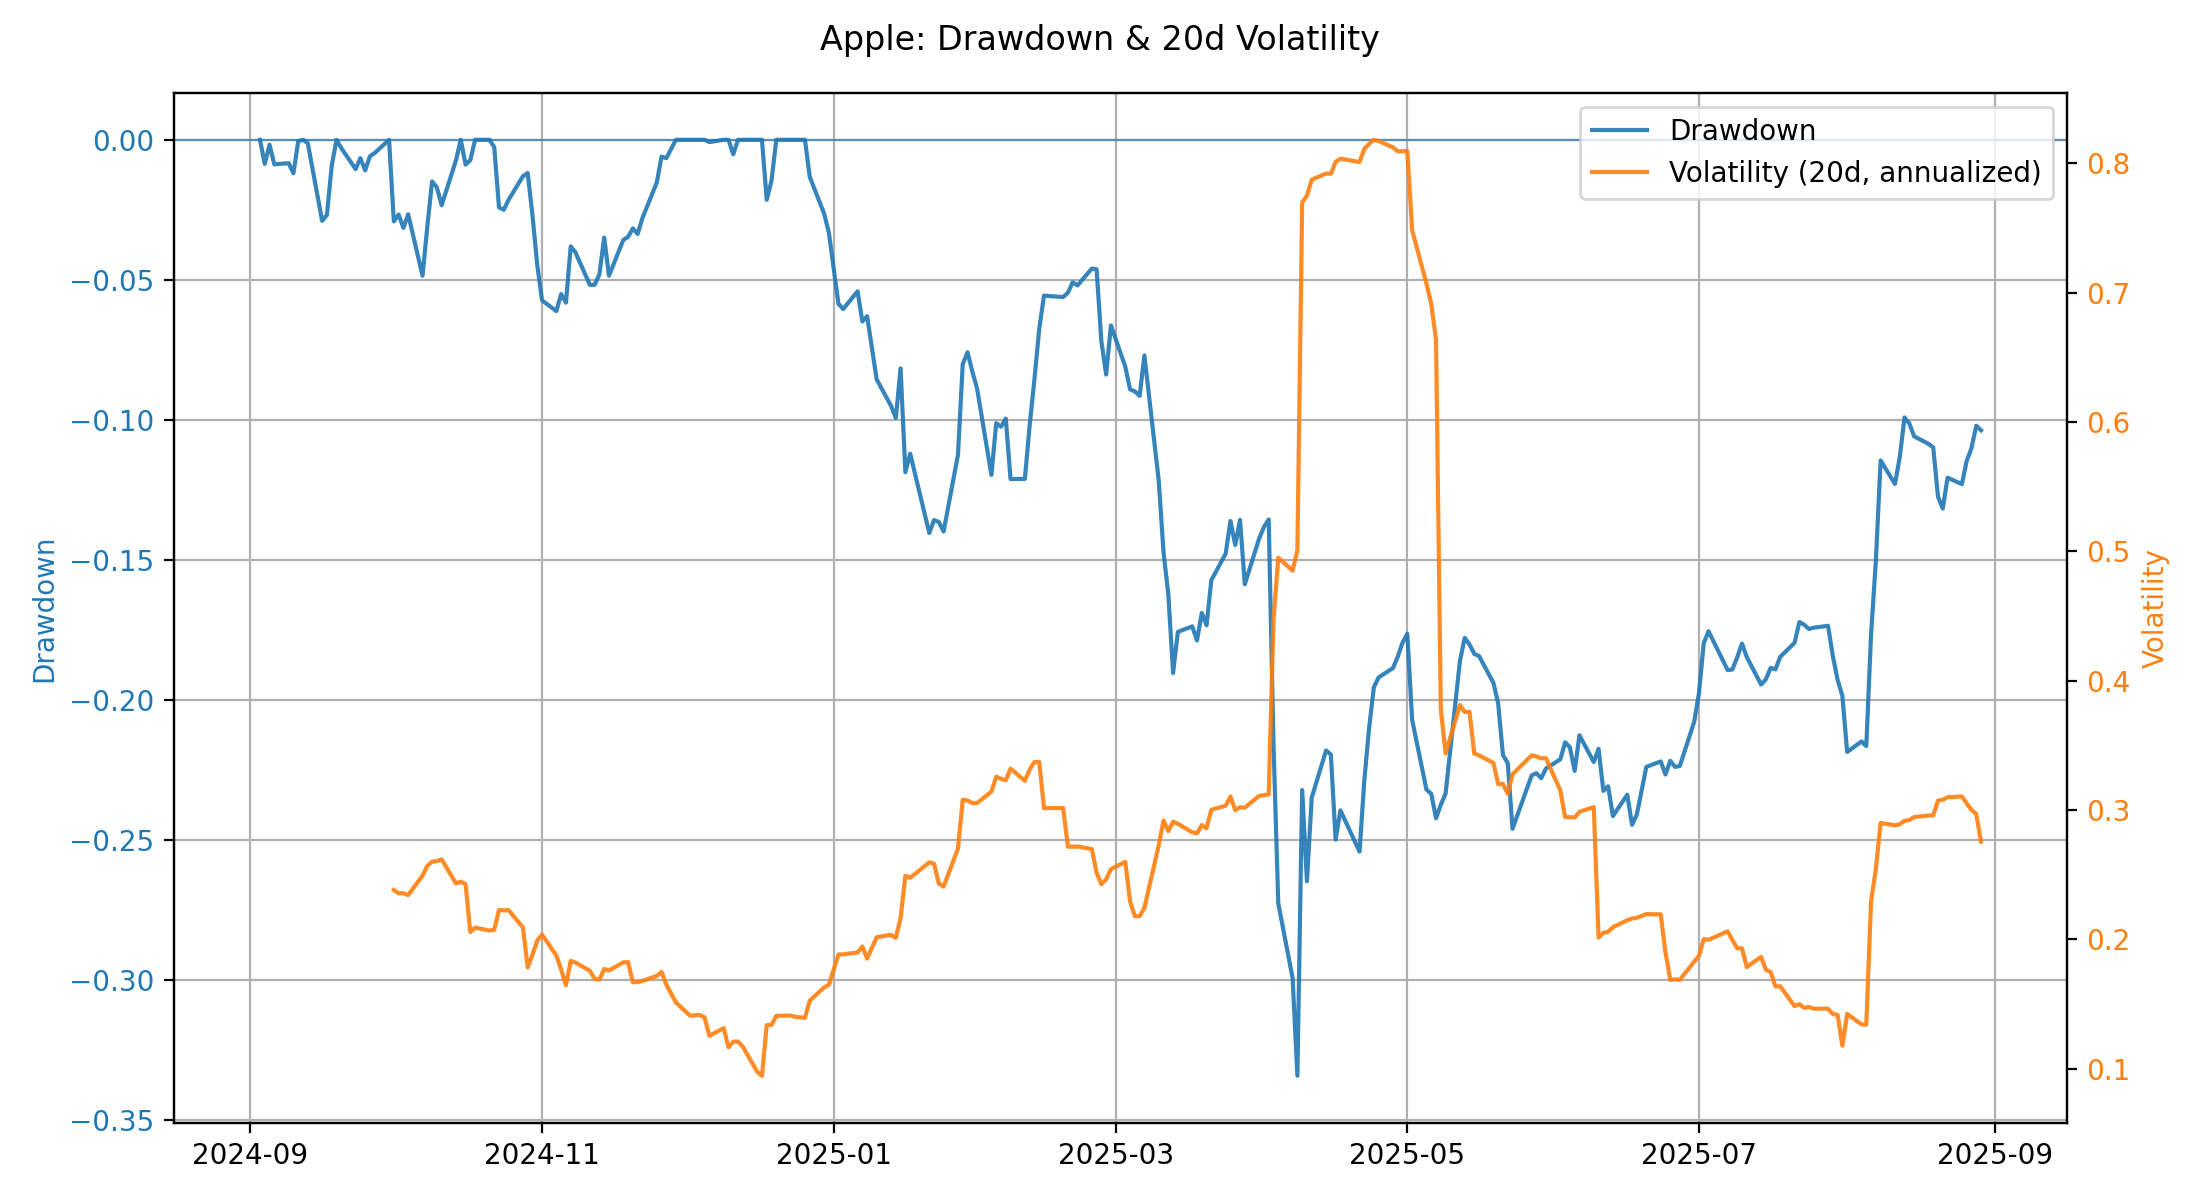
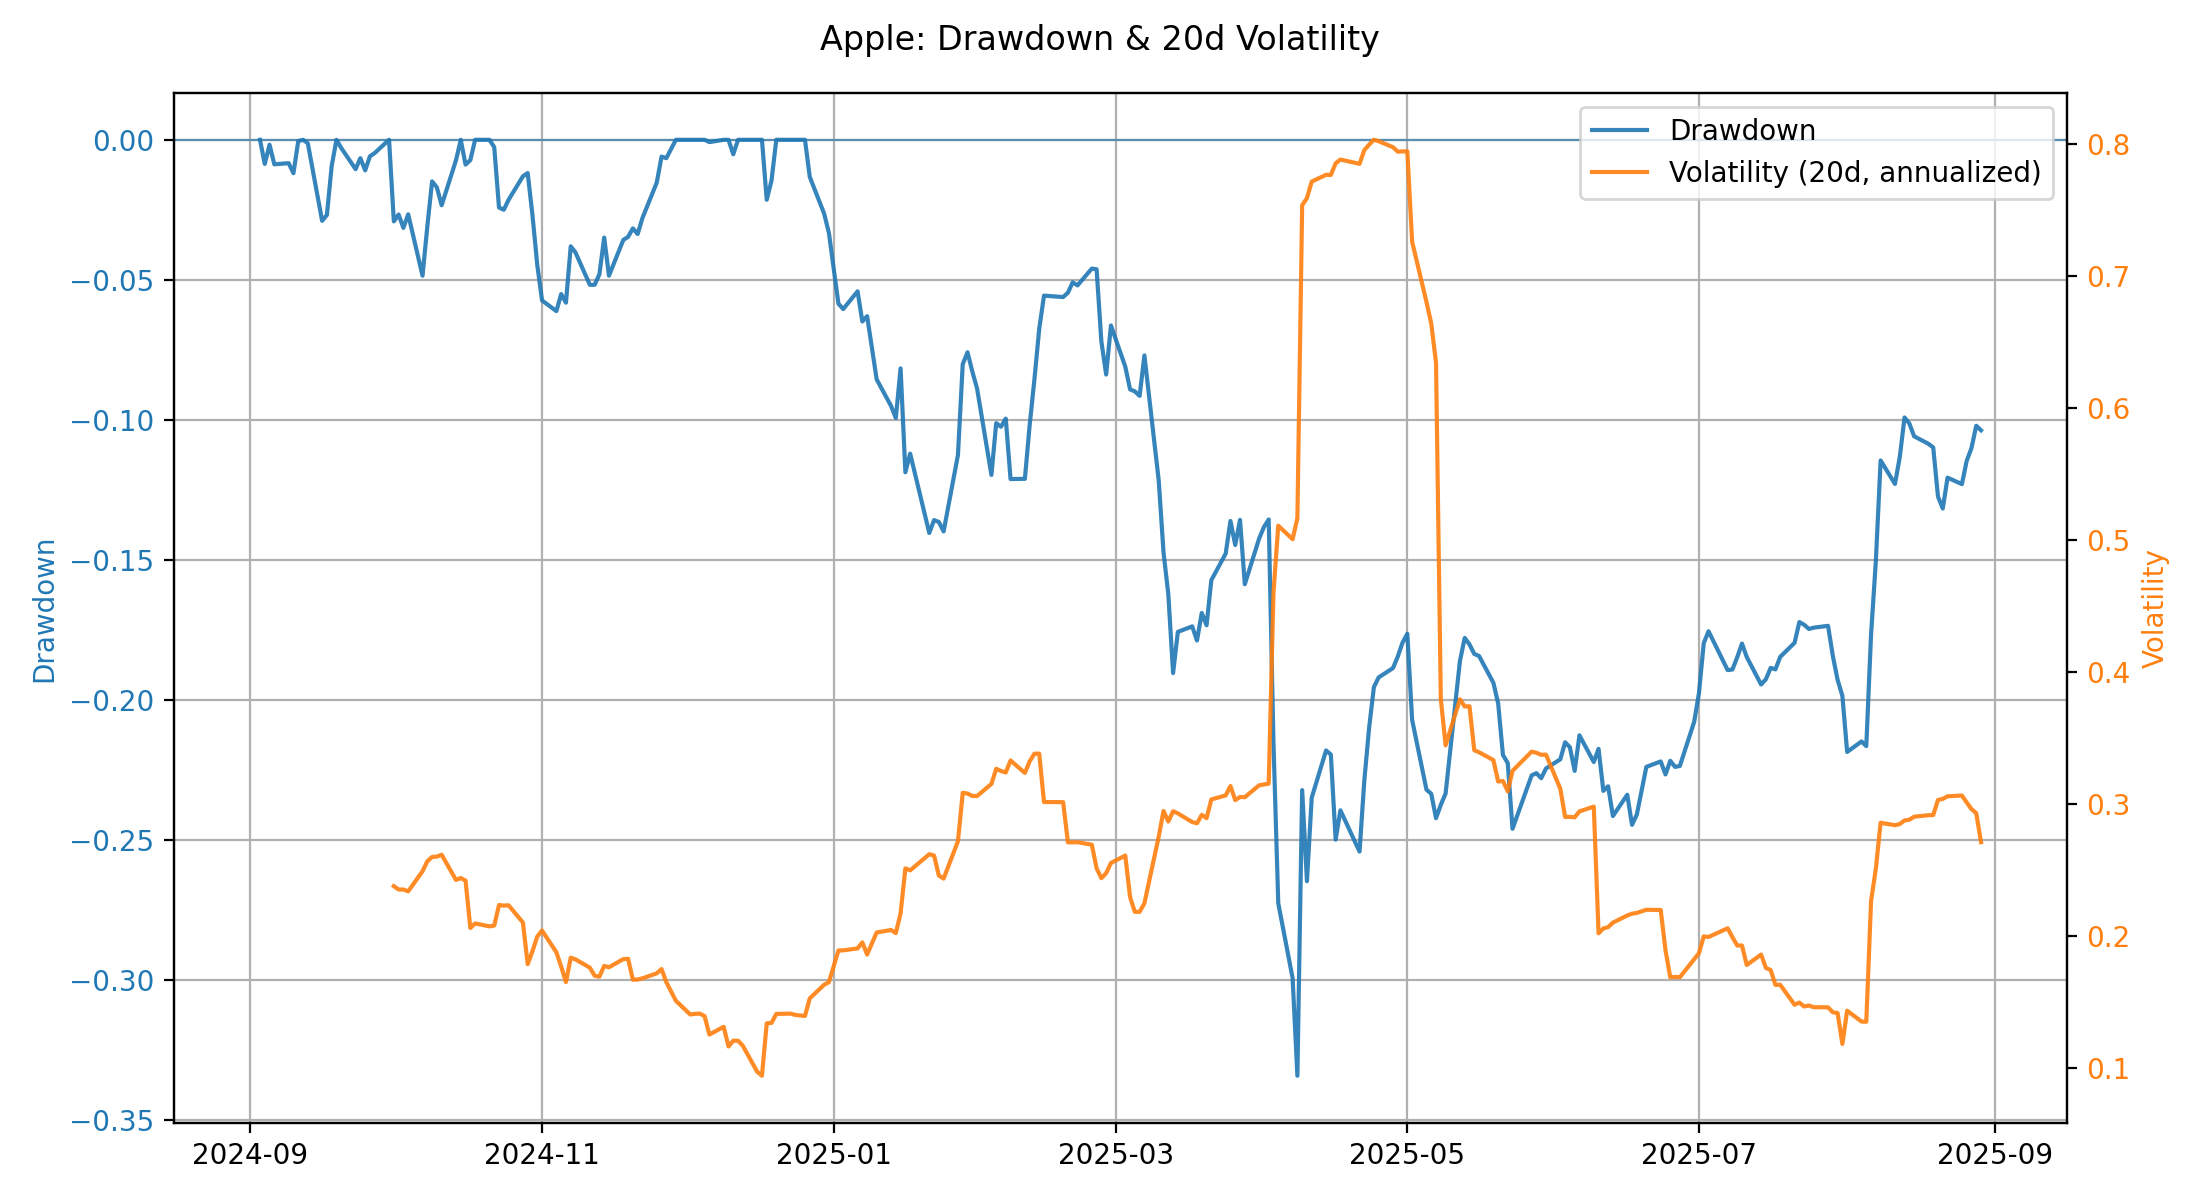
update. code & figs

diff --git a/황정현HW1.py b/황정현HW1.py
@@ -10,8 +10,8 @@ try:
 except Exception:
     HAS_MPLFINANCE = False
 
-SP500_CSV = "data/S&P 500 Historical Data.csv"      
-AAPL_CSV  = "data/Apple Stock Price History.csv"    
+SP500_CSV = "data/S&P 500 Historical Data.csv"
+AAPL_CSV  = "data/Apple Stock Price History.csv"
 OUT_DIR   = "figs"
 SHOW_FIGS = True
 os.makedirs(OUT_DIR, exist_ok=True)
@@ -53,11 +53,12 @@ def load_investing_csv(path):
 
 def add_features(df):
     px = df["Adj Close"]
-    df["MA5"]  = px.rolling(5).mean()
-    df["MA20"] = px.rolling(20).mean()
-    df["MA60"] = px.rolling(60).mean()
-    df["Ret"]  = px.pct_change()
-    df["Vol20"] = df["Ret"].rolling(20).std() * np.sqrt(252)  
+    df["MA5"]   = px.rolling(5).mean()
+    df["MA20"]  = px.rolling(20).mean()
+    df["MA60"]  = px.rolling(60).mean()
+    df["Ret"]   = px.pct_change()
+    df["LogRet"] = np.log(px / px.shift(1))             
+    df["Vol20"] = df["LogRet"].rolling(20).std() * np.sqrt(252)
     cummax = px.cummax()
     df["Drawdown"] = px / cummax - 1.0
     return df
@@ -84,11 +85,10 @@ def ma_slope(series, lookback=60):
 
 def plot_price_ma(df, title, fname):
     plt.figure(figsize=(11,6))
-
     plt.plot(df.index, df["Adj Close"], color="#666666", label="Adj Close", alpha=0.9)
-    plt.plot(df.index, df["MA5"],  label="MA5 (Short-term)",  linewidth=1.8, color="tab:blue")
+    plt.plot(df.index, df["MA5"],  label="MA5 (Short-term)",   linewidth=1.8, color="tab:blue")
     plt.plot(df.index, df["MA20"], label="MA20 (Medium-term)", linewidth=1.8, color="tab:green")
-    plt.plot(df.index, df["MA60"], label="MA60 (Long-term)", linewidth=1.8, color="tab:red")
+    plt.plot(df.index, df["MA60"], label="MA60 (Long-term)",   linewidth=1.8, color="tab:red")
 
     golden, dead = find_crossovers(df)
     plt.scatter(golden, df.loc[golden, "Adj Close"], marker="^", s=55,
@@ -96,8 +96,7 @@ def plot_price_ma(df, title, fname):
     plt.scatter(dead,   df.loc[dead,   "Adj Close"], marker="v", s=55,
                 label="Dead Cross",   color="tab:orange", zorder=3)
 
-    plt.title(title)
-    plt.xlabel("Date"); plt.ylabel("Price")
+    plt.title(title); plt.xlabel("Date"); plt.ylabel("Price")
     leg = plt.legend(title="Moving Averages & Crossovers")
     if leg: leg._legend_box.align = "left"
     plt.grid(True); plt.tight_layout()
@@ -133,10 +132,7 @@ def plot_drawdown_vol(df, title, fname):
     ax2.set_ylabel("Volatility", color=c2)
     ax2.tick_params(axis="y", labelcolor=c2)
 
-    lines = [l1, l2]
-    labels = [ln.get_label() for ln in lines]
-    ax1.legend(lines, labels, loc="upper right")
-
+    ax1.legend([l1, l2], [l1.get_label(), l2.get_label()], loc="upper right")
     fig.suptitle(title)
     ax1.grid(True); fig.tight_layout()
     fig.savefig(os.path.join(OUT_DIR, fname), dpi=200)
@@ -168,14 +164,11 @@ def maybe_candle_chart(df, title, fname):
     )
 
     ax = axlist[0]
-
     ax.plot([], [], color="green", label="Bullish candle")
     ax.plot([], [], color="red",   label="Bearish candle")
-
     ax.plot([], [], color="tab:blue",  label="MA5 (Short-term)")
     ax.plot([], [], color="tab:green", label="MA20 (Medium-term)")
     ax.plot([], [], color="tab:red",   label="MA60 (Long-term)")
-
     ax.legend(loc="upper left", frameon=True, title="Legend")
 
     if SHOW_FIGS: plt.show()
@@ -186,14 +179,14 @@ def main():
     spx  = add_features(load_investing_csv(SP500_CSV))
     aapl = add_features(load_investing_csv(AAPL_CSV))
 
-    beta, intercept, r, p, ret = beta_and_corr(spx["Ret"], aapl["Ret"])
+    beta, intercept, r, p, ret = beta_and_corr(spx["LogRet"], aapl["LogRet"])
 
     spx_g, spx_d = find_crossovers(spx)
     a_g, a_d = find_crossovers(aapl)
     metrics = {
         "Period": f"{spx.index.min().date()} ~ {spx.index.max().date()}",
-        "Corr(SPX,AAPL)": round(ret["SPX"].corr(ret["AAPL"]), 3),
-        "Beta(AAPL~SPX)": round(beta, 2),
+        "Corr(SPX,AAPL)": round(ret["SPX"].corr(ret["AAPL"]), 3), 
+        "Beta(AAPL~SPX)": round(beta, 2),                          
         "SPX Golden/Dead": f"{len(spx_g)}/{len(spx_d)}",
         "AAPL Golden/Dead": f"{len(a_g)}/{len(a_d)}",
         "SPX MA20 slope": round(ma_slope(spx["MA20"]), 6),
@@ -209,7 +202,7 @@ def main():
     plot_drawdown_vol(aapl, "Apple: Drawdown & 20d Volatility",   "aapl_dd_vol.png")
 
     spx_candle_ok  = maybe_candle_chart(spx,  "S&P 500 Candlestick (with MAs)", "spx_candle.png")
-    aapl_candle_ok = maybe_candle_chart(aapl, "Apple Candlestick (with MAs)",    "aapl_candle.png")
+    aapl_candle_ok = maybe_candle_chart(aapl, "Apple Candlestick (with MAs)",   "aapl_candle.png")
 
     lines = [
         "=== Summary (S&P 500 + Apple) ===",
@@ -228,7 +221,7 @@ def main():
 
     pd.DataFrame([metrics]).to_csv(os.path.join(OUT_DIR, "summary_table.csv"), index=False)
 
-    saved = ["spx_ma.png", "aapl_ma.png", "beta_scatter.png", "spx_dd_vol.png", "aapl_dd_vol.png", "aapl_candle.png", "spx_candle.png"]
+    saved = ["spx_ma.png", "aapl_ma.png", "beta_scatter.png", "spx_dd_vol.png", "aapl_dd_vol.png"]
     if spx_candle_ok:  saved.append("spx_candle.png")
     if aapl_candle_ok: saved.append("aapl_candle.png")
 
